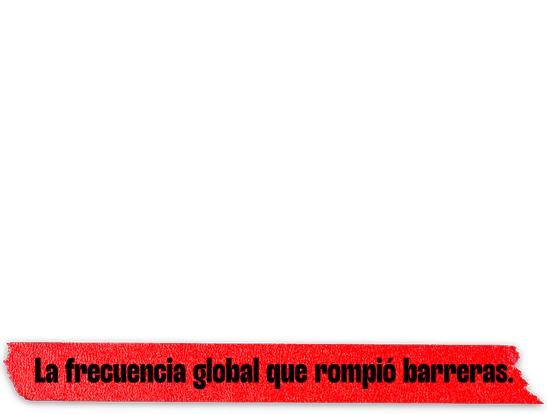
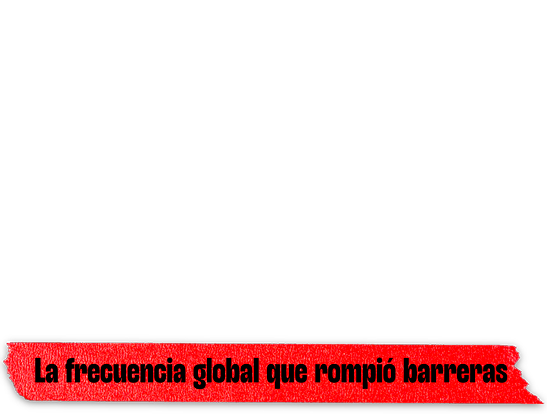
cambio bts clustering

diff --git a/cuadros-mayte/bts_clustering.html b/cuadros-mayte/bts_clustering.html
@@ -110,18 +110,19 @@
     transform: translateY(-65%) rotate(45deg); pointer-events: none;
   }
 
-  .legend-card { background: transparent; border-radius: 4px; padding: 1.4rem 0; margin: 0 auto 1.25rem; max-width: 650px; }
+  .legend-card { background: transparent; border-radius: 4px; padding: 1.4rem 0; margin: 0 auto 1.25rem; max-width: 700px; }
   .legend-title { font-size: 16px; font-weight: 800; margin-bottom: 0.9rem; font-family: 'Prelo Extrabold'; display: none;}
   .legend-section-label { font-size: 13px; font-weight: 700; color: #3a3a42; margin-bottom: 0.6rem; font-family: 'Prelo Semibold'; display: none;}
   .legend-row { display: flex; gap: 1.25rem; flex-wrap: wrap; margin-bottom: 1.1rem; justify-content: center;}
   .legend-row:last-child { margin-bottom: 0; }
+  #legend-cluster { display: contents; }
   .legend-item { display: flex; align-items: center; gap: 0.5rem; font-size: 13.5px; cursor: pointer; user-select: none; opacity: 1; transition: opacity 0.15s; font-family: 'Prelo Medium'; }
   .legend-item.dim { opacity: 0.35; }
   .legend-dot { width: 12px; height: 12px; border-radius: 50%; flex-shrink: 0; }
   .legend-item b { font-family: 'Prelo Bold'; }
   .legend-item .legend-desc { color: var(--muted); display: none;}
 
-  .legend-shape { width: 12px; height: 12px; flex-shrink: 0; background: #9a9aa3; }
+  .legend-shape { width: 12px; height: 12px; flex-shrink: 0; background: #968fff; }
   .legend-shape.circle { border-radius: 50%; }
   .legend-shape.diamond { border-radius: 2px; transform: rotate(45deg); }
 
@@ -228,18 +229,15 @@
     <div class="legend-title">Leyenda</div>
 
     <div class="legend-section-label">Tipo de canción</div>
-    <div class="legend-row" id="legend-cluster"></div>
-
-    <div class="legend-section-label">Era</div>
-    <div class="legend-row" id="legend-era" style="display: none;">
-      <div class="legend-item"><span class="legend-shape circle"></span><span>Pre-servicio</span></div>
-      <div class="legend-item"><span class="legend-shape diamond"></span><span>Reencuentro</span></div>
+    <div class="legend-row">
+      <span id="legend-cluster"></span>
+      <div class="legend-item"><span class="legend-shape diamond"></span><span>Eras</span></div>
     </div>
   </div>
 
   <div class="axis-legend" style="display: none;">
-    <span class="axis-legend-item"><b>Eje X — Valence</b> 0 sombrío <span class="axis-legend-arrow">&#8594;</span> 1 luminoso</span>
-    <span class="axis-legend-item"><b>Eje Y — Energy</b> 0 tranquilo <span class="axis-legend-arrow">&#8594;</span> 1 intenso</span>
+    <span class="axis-legend-item"><b>Eje X — Luminosidad musical</b> 0 sombrío <span class="axis-legend-arrow">&#8594;</span> 1 luminoso</span>
+    <span class="axis-legend-item"><b>Eje Y — Energía</b> 0 tranquilo <span class="axis-legend-arrow">&#8594;</span> 1 intenso</span>
   </div>
 
   <div class="stats-line" id="stats-line"></div>
@@ -270,15 +268,14 @@ const DATA = [{"t":"Intro: 2 Cool 4 Skool (ft. DJ Friz)","s":"BTS","e":"pre","y"
 const CLUSTER_COLOR = { 0: '#6C63FF', 1: '#E8637F', 2: '#4CAF7D', 3: '#D98E4A' };
 const CLUSTER_LABEL = { 0: 'Rítmico y luminoso', 1: 'Potente y menos luminoso', 2: 'Acústico y sereno', 3: 'Hablado / interludio' };
 const CLUSTER_DESC = {
-  0: 'Alta energía, alto valence, alta bailabilidad. El BTS de estadio y los grandes hits comerciales.',
-  1: 'Alta energía, bajo valence. Canciones de crítica social, rap denso y las narrativas más complejas.',
-  2: 'Bajo valence, baja energía, alta acousticness. El BTS más íntimo y los álbumes en solitario más emotivos.',
-  3: 'Speechiness muy alto. Skits e interludes hablados: un grupo pequeño pero muy específico.'
+  0: 'Alta energía, alta luminosidad musical, alta bailabilidad. El BTS de estadio y los grandes hits comerciales.',
+  1: 'Alta energía, baja luminosidad musical. Canciones de crítica social, rap denso y las narrativas más complejas.',
+  2: 'Baja luminosidad musical, baja energía, alto componente acústico. El BTS más íntimo y los álbumes en solitario más emotivos.',
+  3: 'Voz hablada muy alta. Skits e interludes hablados: un grupo pequeño pero muy específico.'
 };
 
 const MEMBER_ORDER = ['ALL','BTS','RM','JIN','SUGA','JHOPE','JIMIN','V','JUNGKOOK'];
 const MEMBER_LABEL = { ALL:'Todos los miembros', BTS:'BTS (grupo)', RM:'RM', JIN:'JIN', SUGA:'SUGA', JHOPE:'J-HOPE', JIMIN:'JIMIN',  V:'V', JUNGKOOK:'JUNGKOOK' };
-const ERA_LABEL = { pre: 'Pre-servicio', post: 'Reencuentro' };
 
 let state = { miembro: 'ALL', era: 'ALL', activeClusters: new Set([0,1,2,3]), selected: null };
 
@@ -291,14 +288,10 @@ MEMBER_ORDER.forEach(m => {
   miembroSelect.appendChild(opt);
 });
 
-/* ===== Cluster stats (por era, sobre todo el corpus) ===== */
+/* ===== Cluster stats ===== */
 function clusterStats(c) {
   const inCluster = DATA.filter(d => d.c === c);
-  const pre = DATA.filter(d => d.e === 'pre').length;
-  const post = DATA.filter(d => d.e === 'post').length;
-  const prePct = pre ? (inCluster.filter(d => d.e === 'pre').length / pre * 100) : 0;
-  const postPct = post ? (inCluster.filter(d => d.e === 'post').length / post * 100) : 0;
-  return { n: inCluster.length, prePct, postPct };
+  return { n: inCluster.length };
 }
 
 /* ===== Legend ===== */
@@ -329,12 +322,10 @@ function renderLegend() {
 function renderClusterCards() {
   const wrap = document.getElementById('cluster-cards');
   wrap.innerHTML = [0,1,2,3].map(c => {
-    const st = clusterStats(c);
     const dim = state.activeClusters.has(c) ? '' : ' dim';
     return `<div class="cluster-card${dim}" data-cluster="${c}" style="border-left-color:${CLUSTER_COLOR[c]}">
       <div class="cluster-card-name" style="color:${CLUSTER_COLOR[c]}">${CLUSTER_LABEL[c]}</div>
       <div class="cluster-card-desc">${CLUSTER_DESC[c]}</div>
-      <div class="cluster-card-stat">Pre-servicio: <b>${st.prePct.toFixed(1)}%</b> · Reencuentro: <b>${st.postPct.toFixed(1)}%</b></div>
     </div>`;
   }).join('');
 
@@ -425,8 +416,8 @@ function initScatter() {
 function showTooltip(event, d) {
   tooltip.html(`
     <div class="tt-title">${d.t}</div>
-    <div class="tt-meta">${MEMBER_LABEL[d.s] || d.s} · ${ERA_LABEL[d.e]} · ${d.y}</div>
-    <div class="tt-row">Valence: <b>${d.v.toFixed(2)}</b> · Energy: <b>${d.en.toFixed(2)}</b></div>
+    <div class="tt-meta">${MEMBER_LABEL[d.s] || d.s} · ${d.y}</div>
+    <div class="tt-row">Luminosidad musical: <b>${d.v.toFixed(2)}</b> · Energía: <b>${d.en.toFixed(2)}</b></div>
     <span class="tt-cluster" style="background:${CLUSTER_COLOR[d.c]}22;color:${CLUSTER_COLOR[d.c]}">${CLUSTER_LABEL[d.c]}</span>
   `).style('opacity', 1);
   moveTooltip(event);
@@ -489,13 +480,13 @@ document.getElementById('detail-close').addEventListener('click', () => {
 
 function openDetail(d) {
   document.getElementById('detail-title').textContent = d.t;
-  document.getElementById('detail-sub').textContent = `${MEMBER_LABEL[d.s] || d.s} · ${ERA_LABEL[d.e]} · ${d.y}`;
+  document.getElementById('detail-sub').textContent = `${MEMBER_LABEL[d.s] || d.s} · ${d.y}`;
   const tag = document.getElementById('detail-cluster-tag');
   tag.textContent = CLUSTER_LABEL[d.c];
   tag.style.background = CLUSTER_COLOR[d.c] + '22';
   tag.style.color = CLUSTER_COLOR[d.c];
 
-  const feats = [['Valence', d.v], ['Energy', d.en], ['Danceability', d.da], ['Acousticness', d.ac], ['Speechiness', d.sp]];
+  const feats = [['Luminosidad musical', d.v], ['Energía', d.en], ['Bailabilidad', d.da], ['Componente acústico', d.ac], ['Voz hablada', d.sp]];
   document.getElementById('detail-bars').innerHTML = feats.map(([label, val]) => `
     <div class="feat-row">
       <span class="feat-label">${label}</span>

diff --git a/index-bts.html b/index-bts.html
@@ -15,7 +15,7 @@
 
     <div class="main-hero">
         <div class="box-titulo">
-            <a href="https://elcomercio.pe/noticias/bts/" target="_blank">#verúltimasnoticias</a>
+            <a href="https://elcomercio.pe/noticias/bts/" target="_blank">#Ver_UltimasNoticias</a>
             <h1>bts</h1>            
         </div>
               
@@ -110,7 +110,7 @@
         <div class="box-universo-musical">
             <div class="ctn-box-universo-musical">
                 <p>
-                    <b>La música de BTS creció en dos direcciones: la discografía del grupo y las obras individuales de sus siete miembros.</b> Entre álbumes, EP, mixtapes, singles, colaboraciones y otros lanzamientos, el repertor  io conjunto reúne más de 700 pistas publicadas a lo largo de su trayectoria. Explora sus lanzamientos y descubre cómo ese universo se fue ampliando con el tiempo.
+                    <b>La música de BTS creció en dos direcciones: la discografía del grupo y las obras individuales de sus siete miembros.</b> Entre álbumes, EP, mixtapes, singles, colaboraciones y otros lanzamientos, el repertorio conjunto reúne más de 700 pistas publicadas a lo largo de su trayectoria. Explora sus lanzamientos y descubre cómo ese universo se fue ampliando con el tiempo.
                 </p>
 
                 <div class="hint-desliza">
@@ -426,7 +426,7 @@
                 <i></i>¿A qué suena BTS?
             </h4>
             <p>
-                <b>Spotify describe cada pista mediante características como energía</b>, positividad musical, bailabilidad, componente acústico y presencia de voz hablada. A partir de esas variables agrupamos 786 registros de audio según sus similitudes y encontramos cuatro perfiles sonoros.
+                <b>Spotify describe cada pista mediante características como energía, positividad musical, bailabilidad, componente acústico y presencia de voz hablada.</b> A partir de esas variables agrupamos 786 registros de audio según sus similitudes y encontramos cuatro perfiles sonoros.
             </p>
 
             <div class="desplegables-radiografia">
